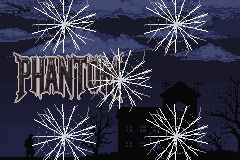
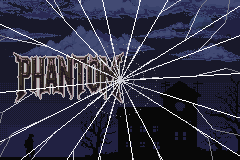
polish(intro): grieta única de impacto a pantalla completa (rejilla de sprites)

diff --git a/graphics/phantom_intro/gen.py b/graphics/phantom_intro/gen.py
@@ -1,28 +1,23 @@
 #!/usr/bin/env python3
-"""Genera crack.png: impacto de vidrio (grietas radiales) para el front-end.
-Programático, sin arte a mano. Paleta indexada de 16 (índice 0 = transparente)."""
+"""Genera crack.png: UN impacto de vidrio a pantalla completa (rejilla de
+sprites) para el front-end. Programático, sin arte a mano. Paleta indexada
+de 16 (índice 0 = transparente)."""
 import math, random
 from PIL import Image
 
-W = H = 64
-CX = CY = 32
 random.seed(7)  # determinista (reproducible en el repo)
 
 # Paleta: 0 transparente (magenta convención gbagfx), 1 blanco, 2 gris claro, 3 gris.
 palette = [255, 0, 255,  248, 248, 248,  200, 200, 208,  120, 120, 130]
 palette += [0, 0, 0] * (16 - len(palette) // 3)
 
-img = Image.new("P", (W, H), 0)
-img.putpalette(palette)
-px = img.load()
-
-def line(x0, y0, x1, y1, color):
+def line(px, w, h, x0, y0, x1, y1, color):
     dx, dy = abs(x1 - x0), abs(y1 - y0)
     sx = 1 if x0 < x1 else -1
     sy = 1 if y0 < y1 else -1
     err = dx - dy
     while True:
-        if 0 <= x0 < W and 0 <= y0 < H:
+        if 0 <= x0 < w and 0 <= y0 < h:
             px[x0, y0] = color
         if x0 == x1 and y0 == y1:
             break
@@ -30,53 +25,96 @@ def line(x0, y0, x1, y1, color):
         if e2 > -dy: err -= dy; x0 += sx
         if e2 < dx:  err += dx; y0 += sy
 
-# Grietas radiales desde el centro, con ramas -- densas y largas para que el
-# impacto se lea como un golpe real y no un motivo chico: llegan casi al
-# borde del sprite 64x64 (algunas se recortan al tocar el borde, lo cual luce
-# bien: imita el vidrio partiéndose hasta el marco). Este mismo motivo se usa
-# en phantom_intro.c en un CLUSTER de copias (mismo tile, distintas
-# posiciones) para el efecto "dramático a pantalla casi completa" -- que cada
-# tile individual llegue bien al borde ayuda a que las copias se lean como
-# una sola red de grietas en vez de 5 rombos sueltos.
-NUM_RAYS = 16
+# --- crack.png: UNA sola grieta de impacto (telaraña) que cubre los 240x160
+# de pantalla completa, cortada en una rejilla de sprites de 64x64.
+#
+# GBA no tiene sprites más grandes de 64x64, así que una grieta continua a
+# pantalla completa se pinta en un lienzo full-screen FS (240x160) y LUEGO se
+# corta en las 12 celdas de una rejilla de 4 columnas x 3 filas -- las mismas
+# coordenadas de centro de celda están hardcodeadas en phantom_intro.c
+# (sCrackCellPos), deben coincidir con GRID_COLS/GRID_ROWS de abajo.
+#
+# Cada celda K se escribe como un bloque VERTICAL de 64x64 en la hoja de
+# salida (64 de ancho, 64*12=768 de alto). Igual razón que menu.png más abajo:
+# gbagfx recorre tiles row-major sobre TODA la hoja, y con mapping 1D de OBJ
+# cada sprite de 64x64 necesita 64 tiles contiguos -- un bloque vertical de
+# alto 64 en una hoja de ancho 64 da exactamente esos 64 tiles seguidos. Si
+# las celdas fueran lado a lado (rejilla horizontal en la hoja), sus filas de
+# tiles quedarían intercaladas y cada sprite saldría con la gráfica rota.
+FS_W, FS_H = 240, 160
+IMPACT_X, IMPACT_Y = 120, 80   # centro real de pantalla: origen ÚNICO del impacto
+
+fs = Image.new("P", (FS_W, FS_H), 0)
+fs.putpalette(palette)
+fpx = fs.load()
+
+# Grietas radiales desde el ÚNICO punto de impacto: largas (llegan a los
+# bordes/esquinas de la pantalla -- la distancia máxima del centro a una
+# esquina es ~144px, así que un largo de 150-175 garantiza que cada rayo
+# efectivamente toque el borde antes de agotarse), cada una con 1-2 ramas.
+# Una sola red conectada, no varios impactos sueltos.
+NUM_RAYS = 18
 for i in range(NUM_RAYS):
-    ang = i * (2 * math.pi / NUM_RAYS) + random.uniform(-0.2, 0.2)
-    length = random.randint(29, 34)
-    ex = int(CX + math.cos(ang) * length)
-    ey = int(CY + math.sin(ang) * length)
-    line(CX, CY, ex, ey, 1)
-    # engrosar el tercio interior del rayo (más creíble como impacto real)
+    ang = i * (2 * math.pi / NUM_RAYS) + random.uniform(-0.15, 0.15)
+    length = random.randint(150, 175)
+    ex = int(IMPACT_X + math.cos(ang) * length)
+    ey = int(IMPACT_Y + math.sin(ang) * length)
+    line(fpx, FS_W, FS_H, IMPACT_X, IMPACT_Y, ex, ey, 1)
+
+    # engrosar el tramo interior del rayo (más creíble como impacto real)
     perp = ang + math.pi / 2
     ox, oy = int(math.cos(perp)), int(math.sin(perp))
-    mx0 = int(CX + math.cos(ang) * length * 0.35)
-    my0 = int(CY + math.sin(ang) * length * 0.35)
-    line(CX + ox, CY + oy, mx0 + ox, my0 + oy, 2)
+    mx0 = int(IMPACT_X + math.cos(ang) * length * 0.25)
+    my0 = int(IMPACT_Y + math.sin(ang) * length * 0.25)
+    line(fpx, FS_W, FS_H, IMPACT_X + ox, IMPACT_Y + oy, mx0 + ox, my0 + oy, 2)
 
-    # rama primaria
+    # rama primaria, a mitad de camino del rayo
     bang = ang + random.uniform(-0.7, 0.7)
-    blen = random.randint(8, 14)
-    mx = int(CX + math.cos(ang) * length * 0.55)
-    my = int(CY + math.sin(ang) * length * 0.55)
+    blen = random.randint(30, 55)
+    mx = int(IMPACT_X + math.cos(ang) * length * 0.5)
+    my = int(IMPACT_Y + math.sin(ang) * length * 0.5)
     bex = int(mx + math.cos(bang) * blen)
     bey = int(my + math.sin(bang) * blen)
-    line(mx, my, bex, bey, 2)
+    line(fpx, FS_W, FS_H, mx, my, bex, bey, 2)
 
-    # rama secundaria, más fina, brotando de la primera (más densidad cerca del borde)
-    b2ang = bang + random.uniform(-0.8, 0.8)
-    b2len = random.randint(4, 9)
-    line(bex, bey, int(bex + math.cos(b2ang) * b2len), int(bey + math.sin(b2ang) * b2len), 3)
+    # 1-2 ramas secundarias, más finas, brotando de la primera
+    for _ in range(random.randint(1, 2)):
+        b2ang = bang + random.uniform(-0.8, 0.8)
+        b2len = random.randint(15, 35)
+        line(fpx, FS_W, FS_H, bex, bey,
+             int(bex + math.cos(b2ang) * b2len), int(bey + math.sin(b2ang) * b2len), 3)
 
-# Anillos concéntricos (grietas circulares), incluido uno cerca del borde
-# para reforzar la sensación de impacto que cubre casi todo el sprite.
-for r in (10, 18, 26):
+# Fragmentos de anillos concéntricos cerca del centro (refuerzan la lectura
+# de impacto puntual sin cubrir toda la pantalla de círculos).
+for r in (14, 24, 36):
     for a in range(0, 360, 5):
-        x = int(CX + math.cos(math.radians(a)) * r)
-        y = int(CY + math.sin(math.radians(a)) * r)
-        if 0 <= x < W and 0 <= y < H and random.random() > 0.35:
-            px[x, y] = 3
+        x = int(IMPACT_X + math.cos(math.radians(a)) * r)
+        y = int(IMPACT_Y + math.sin(math.radians(a)) * r)
+        if 0 <= x < FS_W and 0 <= y < FS_H and random.random() > 0.35:
+            fpx[x, y] = 3
 
-img.save("graphics/phantom_intro/crack.png")
-print("crack.png generado")
+# Rejilla de 4 columnas x 3 filas de celdas 64x64 (coordenadas de CENTRO,
+# igual convención que CreateSprite en phantom_intro.c): cubre los 240x160
+# completos. Los bordes derecho/inferior solapan un poco entre celdas
+# vecinas (64px no divide exacto ni 240 ni 160) -- no genera artefacto porque
+# ambas celdas se cortan de la MISMA imagen FS, así que el contenido
+# coincide píxel a píxel en la zona compartida.
+GRID_COLS = (32, 96, 160, 208)
+GRID_ROWS = (32, 96, 144)
+
+sheet = Image.new("P", (64, 64 * len(GRID_COLS) * len(GRID_ROWS)), 0)
+sheet.putpalette(palette)
+
+k = 0
+for cy in GRID_ROWS:
+    for cx in GRID_COLS:
+        box = (cx - 32, cy - 32, cx + 32, cy + 32)
+        cell = fs.crop(box)   # fuera de límites de FS -> PIL rellena con índice 0 (transparente)
+        sheet.paste(cell, (0, k * 64))
+        k += 1
+
+sheet.save("graphics/phantom_intro/crack.png")
+print("crack.png generado (%d celdas de 64x64)" % k)
 
 # --- menu.png: "NUEVA PARTIDA" / "CONTINUAR" + cursor, fuente 5x7 embebida ---
 # Layout en memoria: pila VERTICAL de 4 bloques, cada uno del ANCHO COMPLETO de

diff --git a/src/phantom_intro.c b/src/phantom_intro.c
@@ -40,7 +40,7 @@ static const struct OamData sOam_Crack = {
     .size = SPRITE_SIZE(64x64),
     .priority = 0,
 };
-static const struct SpriteSheet sSheet_Crack = { sCrackGfx, 64 * 64 / 2, TAG_CRACK };
+static const struct SpriteSheet sSheet_Crack = { sCrackGfx, 64 * (64 * 12) / 2, TAG_CRACK };
 static const struct SpritePalette sPal_Crack = { sCrackPal, TAG_CRACK };
 static const struct SpriteTemplate sTmpl_Crack = {
     .tileTag = TAG_CRACK, .paletteTag = TAG_CRACK, .oam = &sOam_Crack,
@@ -48,21 +48,24 @@ static const struct SpriteTemplate sTmpl_Crack = {
     .affineAnims = gDummySpriteAffineAnimTable, .callback = SpriteCallbackDummy,
 };
 
-// Cluster de copias del mismo sprite de grieta, radiando desde el centro real
-// de pantalla (120,80), para un impacto dramático casi a pantalla completa en
-// vez de un único sprite 64x64 chico. Todas comparten el mismo tile/paleta
-// (TAG_CRACK): son CreateSprite adicionales sobre la MISMA hoja ya cargada,
-// no un LoadSpriteSheet por copia -- no hay fuga ni costo extra de VRAM de
-// tiles, solo NUM_CRACKS entradas de OAM (bien por debajo del máximo de 64).
-#define NUM_CRACKS 5
-#define CRACK_OFFSET 56   // px de las copias diagonales respecto al centro
+// UNA sola grieta de impacto (telaraña conectada desde el centro real de
+// pantalla, 120,80), rebanada en una rejilla de 4 columnas x 3 filas de
+// sprites 64x64 para cubrir los 240x160 completos (un GBA sprite no puede
+// pasar de 64x64). graphics/phantom_intro/gen.py pinta el motivo completo en
+// un lienzo full-screen y lo corta en estas mismas 12 celdas -- las
+// coordenadas de centro de abajo DEBEN coincidir con GRID_COLS/GRID_ROWS de
+// gen.py. Todas las celdas comparten la misma hoja/paleta ya cargada
+// (TAG_CRACK): son CreateSprite adicionales sobre tiles ya en VRAM, cada uno
+// leyendo su propio bloque de 64 tiles contiguos vía oam.tileNum += K*64
+// (mismo patrón ya usado para los sprites del menú, ver MENU_TILE_* abajo).
+#define NUM_CRACKS 12
+#define CRACK_TILES_PER_CELL 64   // 64x64 px = 8x8 tiles = 64 tiles 4bpp
 
-static const s16 sCrackOffsets[NUM_CRACKS][2] = {
-    {              0,               0 },  // centro
-    { -CRACK_OFFSET, -CRACK_OFFSET },     // arriba-izquierda
-    {  CRACK_OFFSET, -CRACK_OFFSET },     // arriba-derecha
-    { -CRACK_OFFSET,  CRACK_OFFSET },     // abajo-izquierda
-    {  CRACK_OFFSET,  CRACK_OFFSET },     // abajo-derecha
+static const s16 sCrackCellPos[NUM_CRACKS][2] = {
+    //   x,   y  (centro de sprite; ver CreateSprite/CalcCenterToCornerVec)
+    {  32,  32 }, {  96,  32 }, { 160,  32 }, { 208,  32 },   // fila 0
+    {  32,  96 }, {  96,  96 }, { 160,  96 }, { 208,  96 },   // fila 1
+    {  32, 144 }, {  96, 144 }, { 160, 144 }, { 208, 144 },   // fila 2
 };
 
 static bool8 sCrackShown;
@@ -148,8 +151,11 @@ static void Task_PhantomGlass(u8 taskId)
                 u32 i;
                 for (i = 0; i < NUM_CRACKS; i++)
                 {
-                    sCrackSpriteIds[i] = CreateSprite(&sTmpl_Crack,
-                        120 + sCrackOffsets[i][0], 80 + sCrackOffsets[i][1], 0);  // 120,80 = centro de 240x160
+                    u8 id = CreateSprite(&sTmpl_Crack,
+                        sCrackCellPos[i][0], sCrackCellPos[i][1], 0);
+                    if (id != MAX_SPRITES)
+                        gSprites[id].oam.tileNum += i * CRACK_TILES_PER_CELL;
+                    sCrackSpriteIds[i] = id;
                 }
             }
             sCrackShown = TRUE;